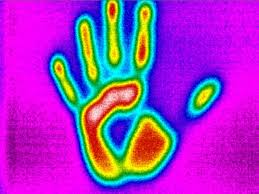
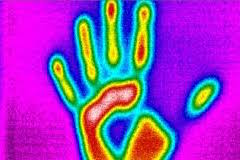
example visible and thermal images (under server/uploads) are updated to have dimensions of multiplications of 8. otherwise the code does not work. transmorph code is also to remove the debug lines (printfs) causing SEGFAULT.

diff --git a/software/JPEG_transmorph_code/jptrsmorph.c b/software/JPEG_transmorph_code/jptrsmorph.c
@@ -1182,7 +1182,6 @@ main (int argc, char **argv)
 		fprintf(stderr, "  Number of bytes to write in APP11: 1 + 1 + %d + %d\n", bytes_filesize, bytes_mask_array);
 		jpeg_write_m_byte(&dstinfo2, TRANSMORPH);       /* 1st byte - protection method: 3 - TRANSMORPH */
 		jpeg_write_m_byte(&dstinfo2, bytes_filesize);   /* 2nd byte - bytes_filesize */
-		printf('HELLO %d\n', 1);
 		/* Record the filesize in the following <bytes_filesize> bytes */
 		int x;
 		for (x = 0; x < bytes_filesize; x++) {
@@ -1205,7 +1204,6 @@ main (int argc, char **argv)
 		jtransform_execute_transformation(&srcinfo2, &dstinfo2,
 										  src_coef_arrays2,
 										  &transformoption);
-		printf('HELLO %d\n', 2);
 #endif
 		
 		/* Finish compression and release memory */
@@ -1220,7 +1218,6 @@ main (int argc, char **argv)
 		if (output_file2 != stdout)
 			fclose(output_file2);
 
-		printf('HELLO %d\n', 3);
 		
 #ifdef PROGRESS_REPORT
 		end_progress_monitor((j_common_ptr) &dstinfo2);
@@ -1234,8 +1231,6 @@ main (int argc, char **argv)
   	//else
   	//	puts( "DEBUG: Intermedaite file successfully deleted" );
 	/* All done. */
-
-	printf('HELLO %d\n', 4);
 
 	exit(jsrcerr.num_warnings + jdsterr.num_warnings ?EXIT_WARNING:EXIT_SUCCESS);
 	return 0;			/* suppress no-return-value warnings */
